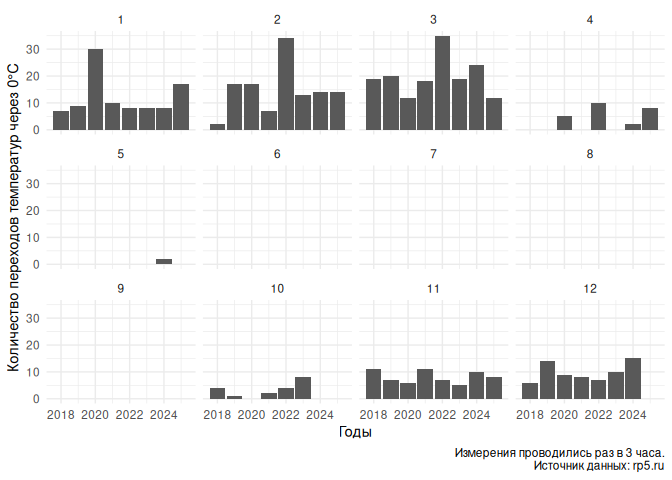
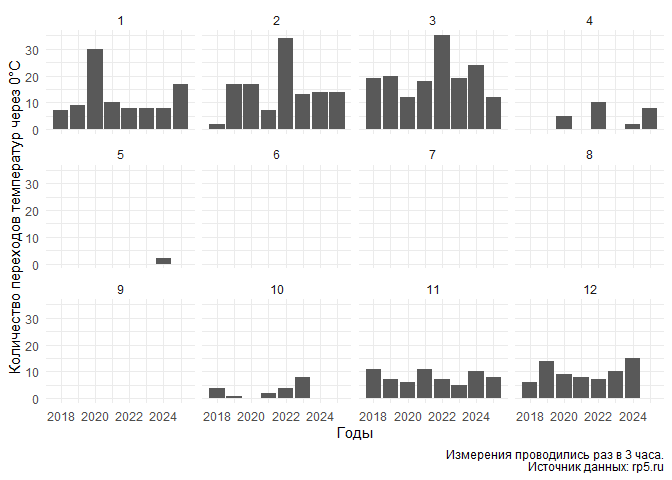
схема перенесена в inst каталог из корня проекта

diff --git a/README.md b/README.md
@@ -74,7 +74,7 @@ devtools::install_github("yakushov1/pogodaR")
   Ниже приведена схема наиболее типичного пайплайна использования
   пакета:
 
-![](images/pogodaR.png)
+![](inst/images/pogodaR.png)
 
 ## Типичный пайплан обработки данных
 
